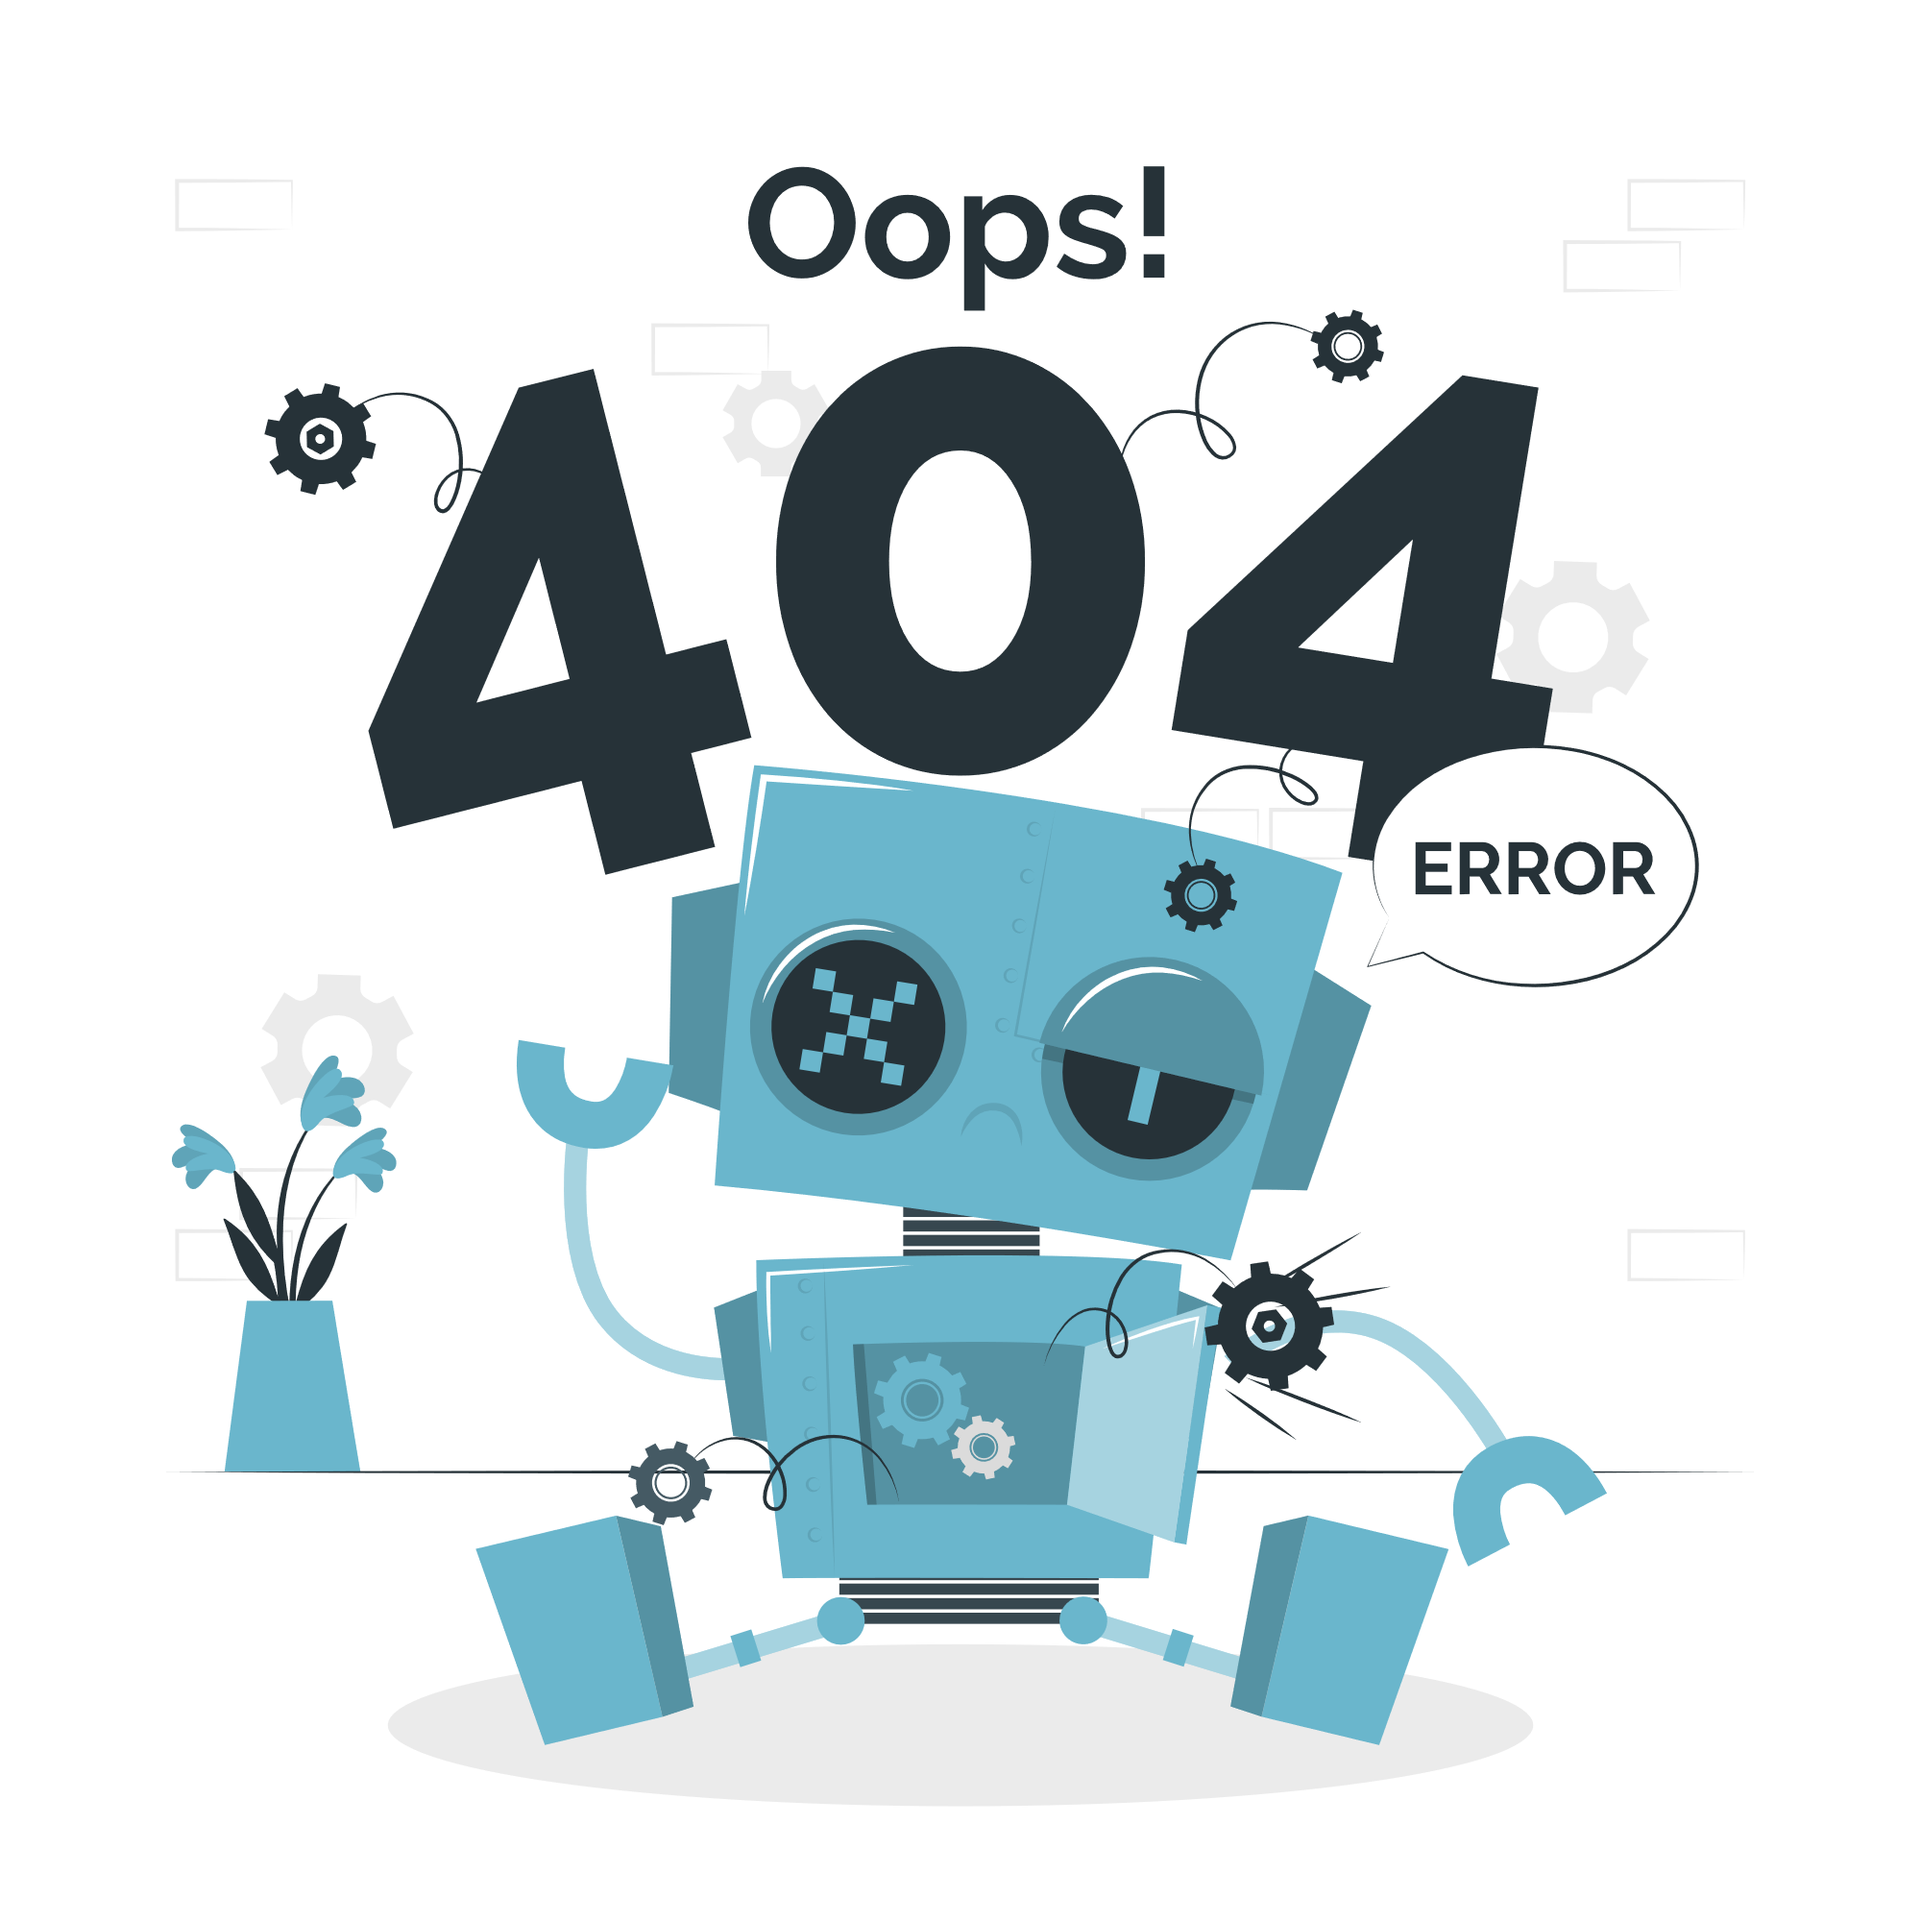
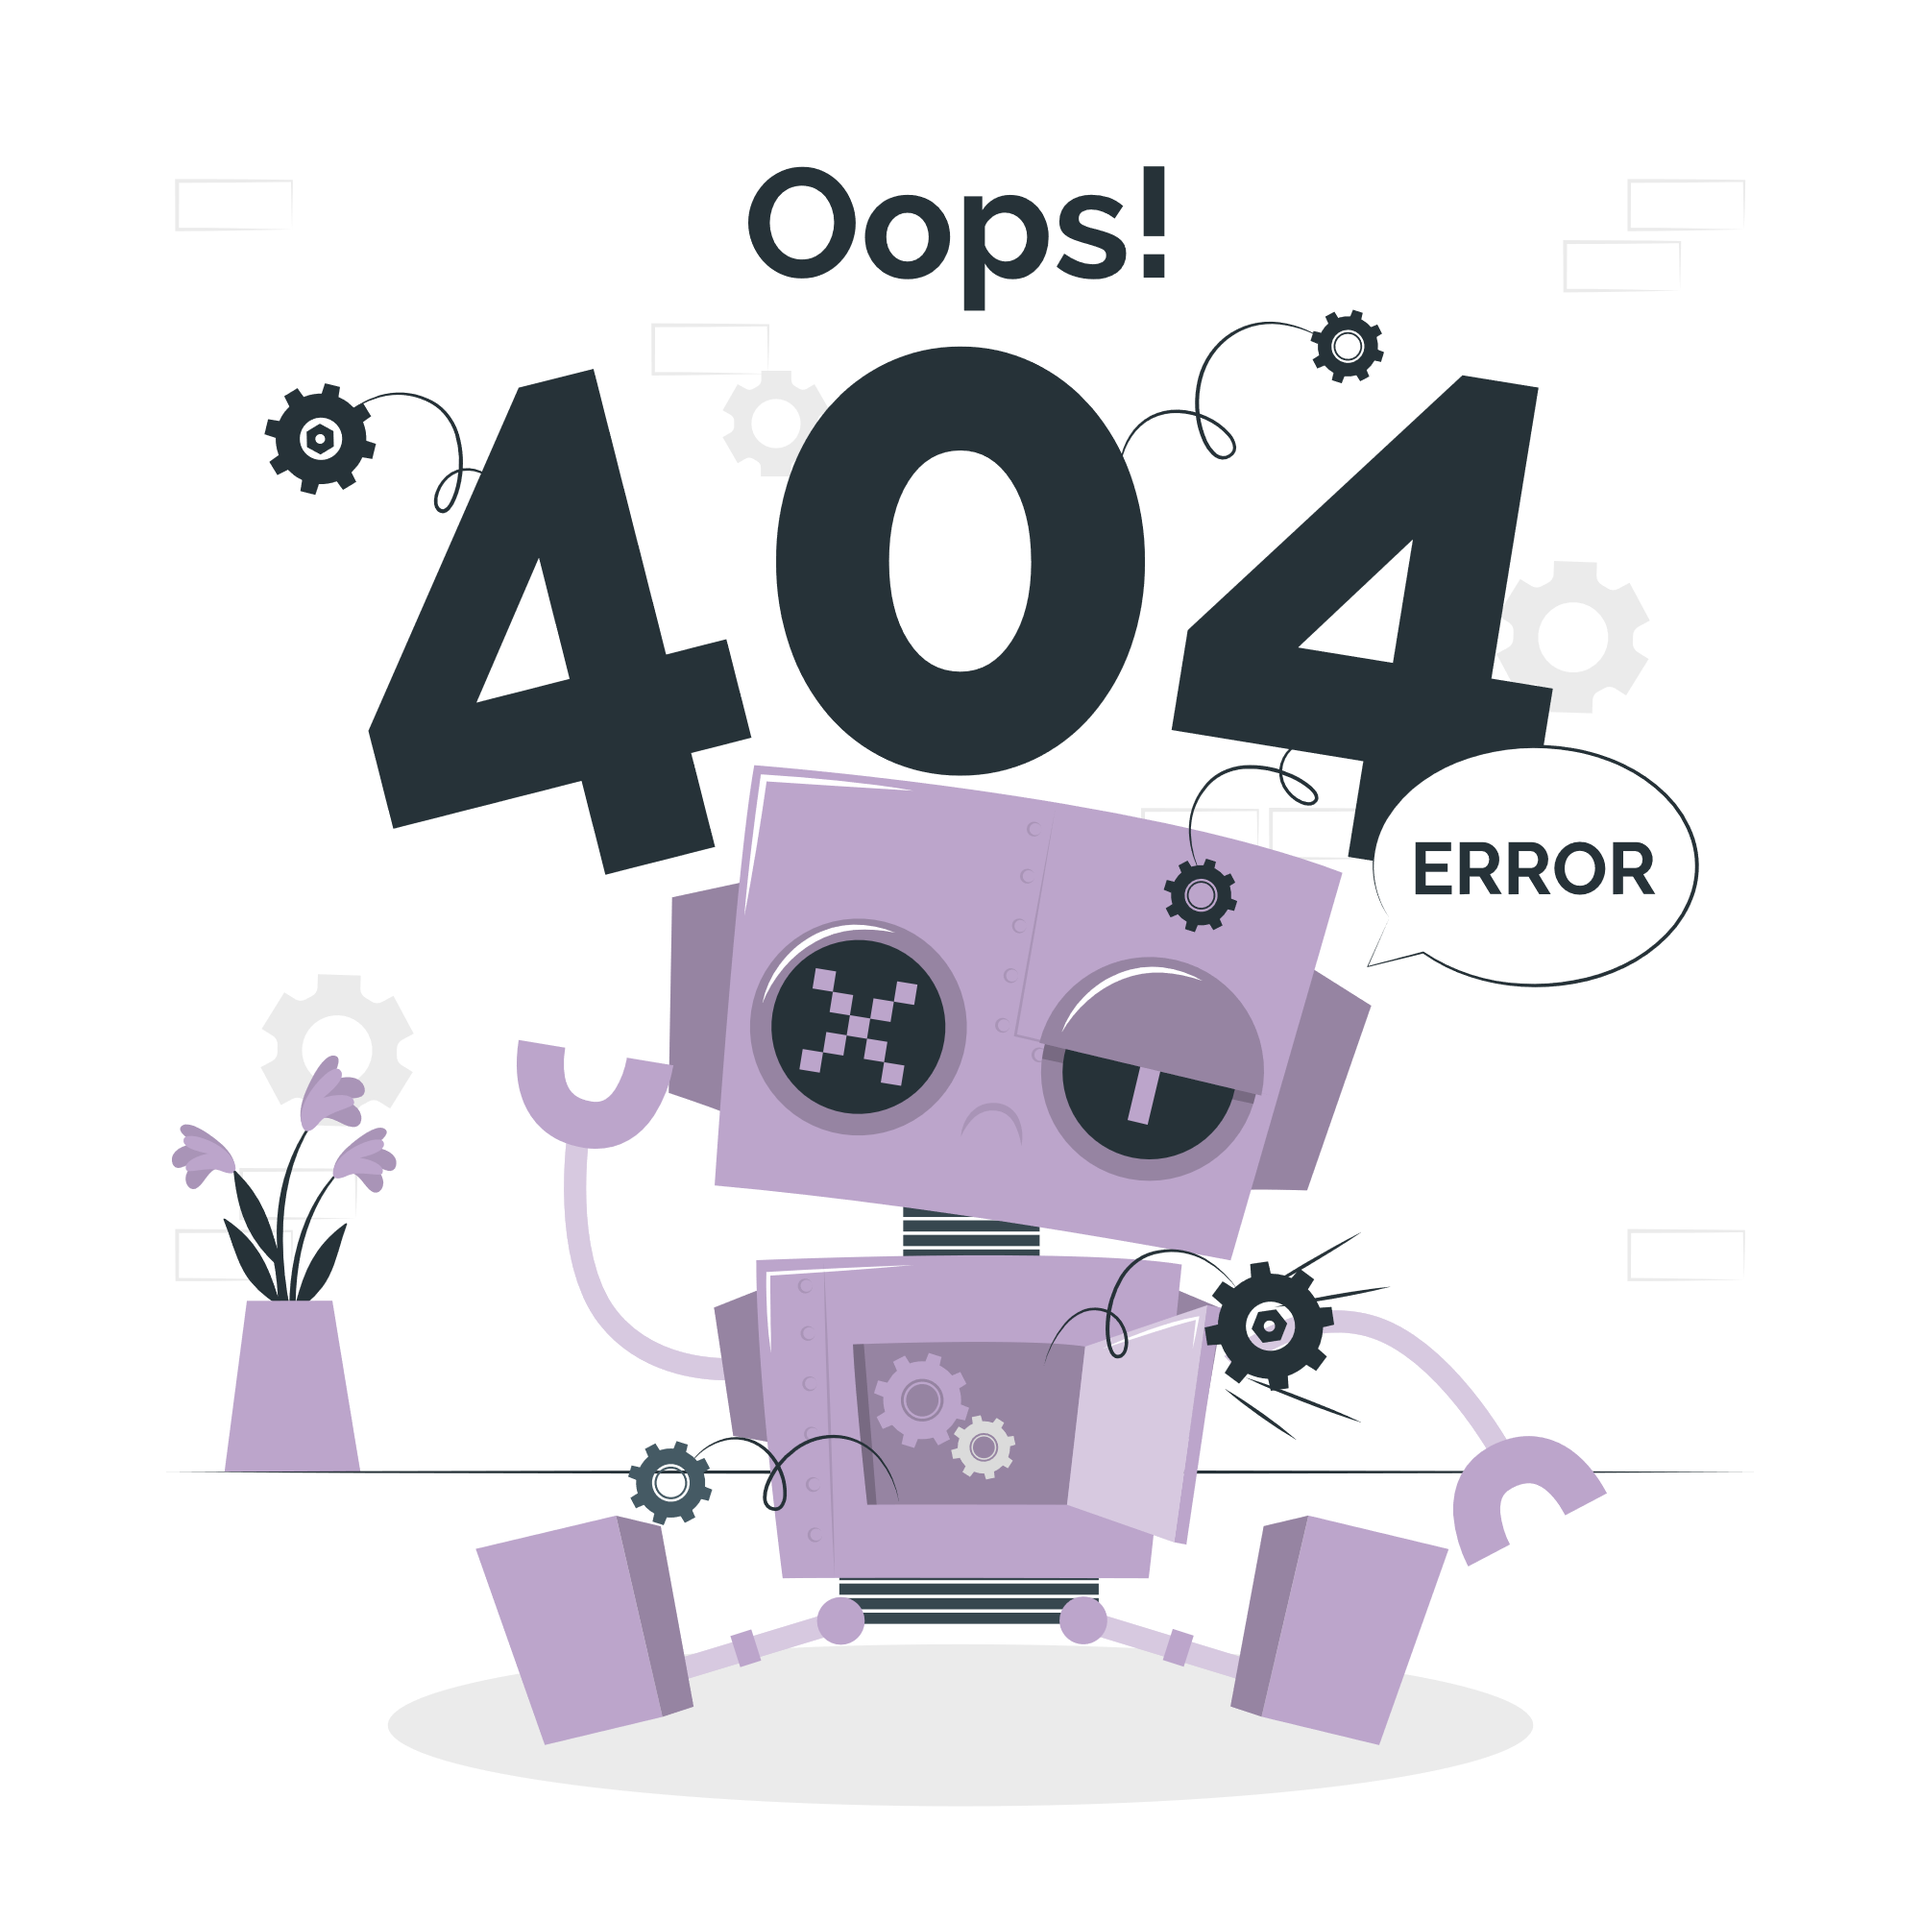
Home style

diff --git a/src/containers/Home/index.jsx b/src/containers/Home/index.jsx
@@ -2,9 +2,9 @@ import React, { useEffect, useState } from 'react';
 import './index.scss';
 import { useParams } from 'react-router-dom';
 import Product from 'Components/Product';
+import Loading from 'Components/Loading';
 import getCategory from '../../api/category';
 import getProducts from '../../api/products';
-import { Circles } from 'react-loader-spinner';
 
 const Home = () => {
   const [products, setProducts] = useState([]);
@@ -40,19 +40,7 @@ const Home = () => {
   return (
     <div className="home">
       {loading ? (
-        <div className="home__loading-container">
-          <span className="home__loading-title">Loading...</span>
-          <Circles
-            className="home__loading"
-            height="80"
-            width="80"
-            color="#000000"
-            ariaLabel="circles-loading"
-            wrapperStyle={{}}
-            wrapperClass=""
-            marginTop="20px"
-          />
-        </div>
+        <Loading />
       ) : (
         <div className="home__view">
           <h1 className="home__title">

diff --git a/src/containers/Home/index.scss b/src/containers/Home/index.scss
@@ -1,9 +1,11 @@
+@import "../../theme/variables.scss";
+
 .home__view {
   align-items: center;
   display: flex;
   flex: 1;
   flex-direction: column;
-  font-family: monospace;
+  font-family: $base-font;
   justify-content: center;
   background-color: rgb(220, 219, 219);
 
@@ -14,7 +16,14 @@
 }
 
 .home__title {
-  font-size: 50px;
+  font-size: 35px;
+  color: white;
+  font-family: $base-font;
+  background-color: $base-color;
+  padding: 5px;
+  width: 100%;
+  text-align: center;
+  border-radius: 5px;
 }
 
 .home__products {
@@ -22,16 +31,4 @@
   flex-wrap: wrap;
   justify-content: space-around;
   margin: 0px 20px 0px 20px;
-}
-
-.home__loading-container {
-  display: flex;
-  flex-direction: column;
-  align-items: center;
-  margin-top: 40px;
-}
-
-.home__loading-title {
-  margin: 10px 0px 30px 0px;
-  font-family: sans-serif;
 }

diff --git a/src/theme/variables.scss b/src/theme/variables.scss
@@ -1,1 +1,5 @@
-$base-font: monospace;
+@import url('https://fonts.googleapis.com/css2?family=Arvo&family=Graduate&display=swap');
+
+$base-font: 'Arvo', serif;
+$base-color:rgb(188, 165, 203);
+$background-color: rgb(220, 219, 219);

diff --git a/src/theme/index.scss b/src/theme/index.scss
@@ -1,5 +1,5 @@
 @import "./variables";
 
 body {
-    background-color: rgb(220, 219, 219);
+    background-color: $background-color;
 }
